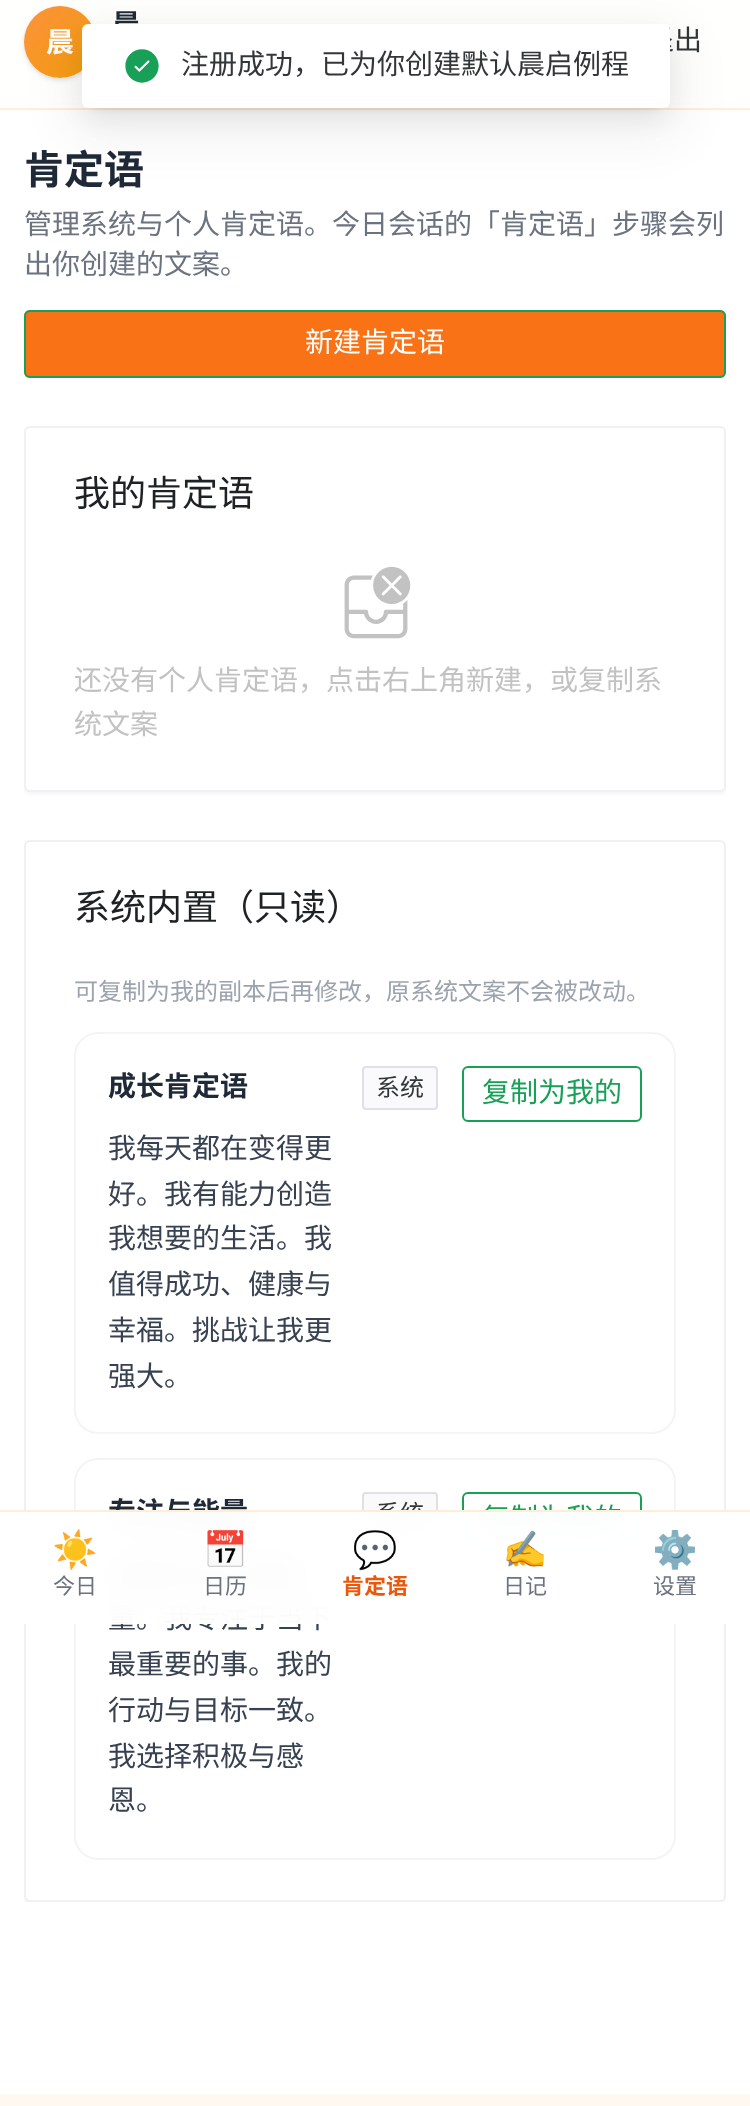
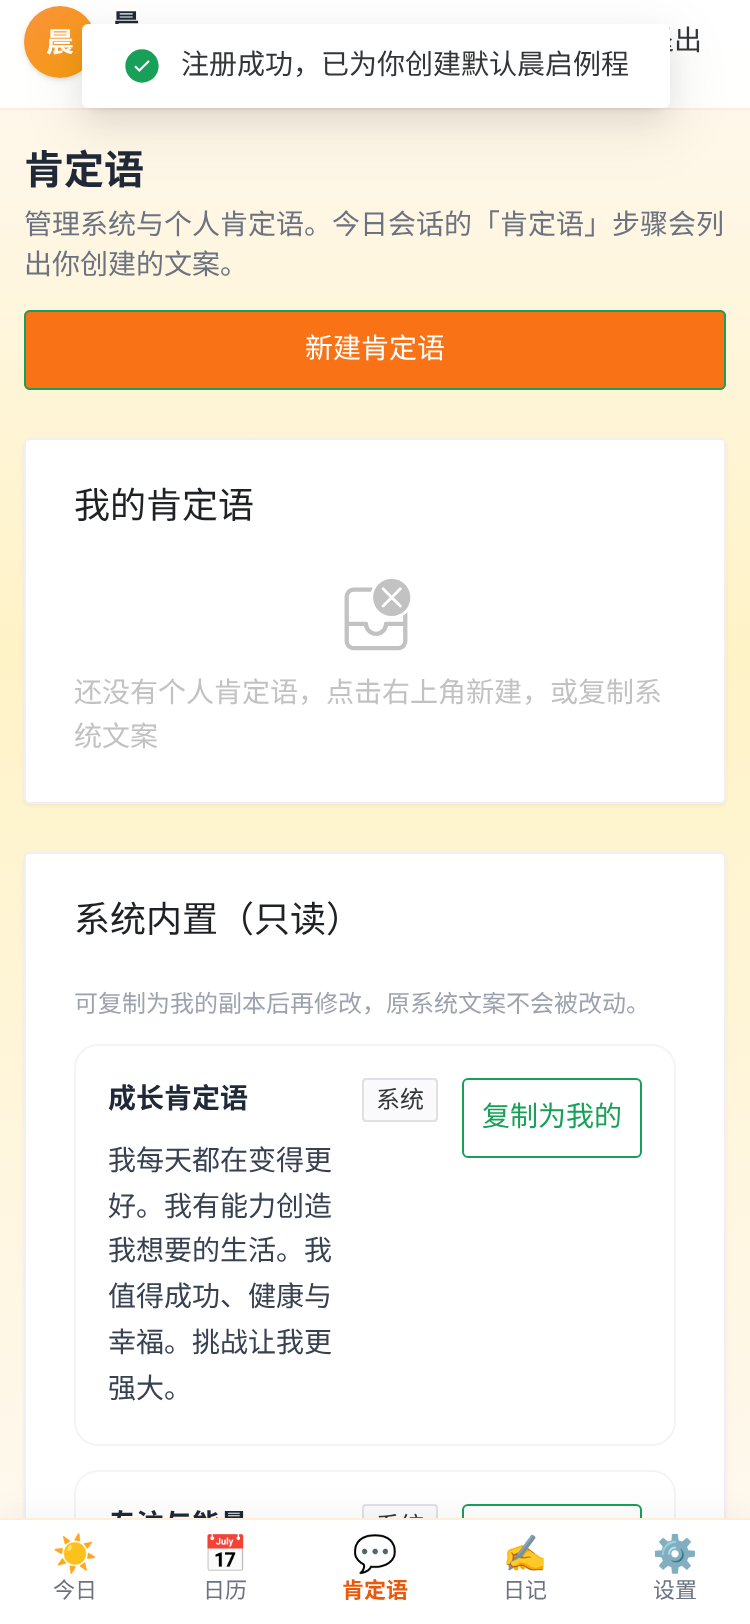
fix(frontend): pin mobile tab bar to viewport via Teleport
Naive UI n-layout scroll/overflow containers can trap position:fixed on
mobile WebKit, leaving the tab bar mid-page. Move the bar to document.body
with Teleport, replace n-layout with a plain flex shell, and recapture
viewport (not fullPage) mobile screenshots.

diff --git a/frontend/src/App.vue b/frontend/src/App.vue
@@ -5,9 +5,6 @@ import {
   NConfigProvider,
   NMessageProvider,
   NDialogProvider,
-  NLayout,
-  NLayoutHeader,
-  NLayoutContent,
   NMenu,
   NButton,
   NSpace,
@@ -59,10 +56,11 @@ function isTabActive(key: string) {
   <n-config-provider :locale="zhCN" :date-locale="dateZhCN">
     <n-message-provider>
       <n-dialog-provider>
-        <n-layout class="min-h-screen min-h-[100dvh] bg-transparent">
-          <n-layout-header
+        <!-- Plain shell: avoid n-layout overflow containers that trap position:fixed on mobile WebKit -->
+        <div class="app-shell flex flex-col min-h-[100dvh] min-h-screen bg-transparent">
+          <header
             v-if="showNav"
-            class="safe-top px-3 sm:px-4 md:px-8 py-3 bg-white/90 backdrop-blur border-b border-orange-100 sticky top-0 z-20"
+            class="app-header safe-top sticky top-0 z-20 px-3 sm:px-4 md:px-8 py-3 bg-white/95 border-b border-orange-100"
           >
             <div class="max-w-5xl mx-auto flex items-center justify-between gap-3">
               <div class="flex items-center gap-2 sm:gap-3 min-w-0">
@@ -85,22 +83,24 @@ function isTabActive(key: string) {
                 <n-button quaternary size="medium" class="!px-3" @click="logout">退出</n-button>
               </n-space>
             </div>
-          </n-layout-header>
+          </header>
 
-          <n-layout-content
-            class="px-3 sm:px-4 md:px-8 py-4 sm:py-6"
-            :class="showNav ? 'pb-24 md:pb-6' : ''"
+          <main
+            class="flex-1 w-full px-3 sm:px-4 md:px-8 py-4 sm:py-6"
+            :class="showNav ? 'pb-[calc(4.5rem+env(safe-area-inset-bottom,0px))] md:pb-6' : ''"
           >
             <div class="max-w-5xl mx-auto w-full">
               <router-view v-if="auth.ready || route.meta.guest" />
               <div v-else class="text-center text-gray-500 py-20">加载中…</div>
             </div>
-          </n-layout-content>
+          </main>
+        </div>
 
-          <!-- Mobile bottom nav -->
+        <!-- Teleport to body so fixed is always relative to the viewport -->
+        <Teleport to="body">
           <nav
             v-if="showNav"
-            class="md:hidden fixed bottom-0 inset-x-0 z-30 bg-white/95 backdrop-blur border-t border-orange-100 safe-bottom"
+            class="mobile-tabbar md:hidden"
             aria-label="主导航"
           >
             <div class="grid grid-cols-5 max-w-lg mx-auto">
@@ -108,7 +108,7 @@ function isTabActive(key: string) {
                 v-for="tab in bottomTabs"
                 :key="tab.key"
                 type="button"
-                class="flex flex-col items-center justify-center gap-0.5 py-2 min-h-[56px] text-[11px] sm:text-xs transition-colors"
+                class="flex flex-col items-center justify-center gap-0.5 py-2 min-h-[52px] text-[11px] sm:text-xs transition-colors"
                 :class="isTabActive(tab.key) ? 'text-orange-600 font-semibold' : 'text-gray-500'"
                 @click="onMenu(tab.key)"
               >
@@ -117,7 +117,7 @@ function isTabActive(key: string) {
               </button>
             </div>
           </nav>
-        </n-layout>
+        </Teleport>
       </n-dialog-provider>
     </n-message-provider>
   </n-config-provider>

diff --git a/frontend/src/style.css b/frontend/src/style.css
@@ -21,9 +21,9 @@ body {
 
 #app {
   overflow-x: hidden;
+  min-height: 100dvh;
 }
 
-/* Prefer comfortable tap targets on touch devices */
 @media (pointer: coarse) {
   button, .n-button, a {
     min-height: 40px;
@@ -36,4 +36,18 @@ body {
 
 .safe-top {
   padding-top: env(safe-area-inset-top, 0px);
+}
+
+/* Viewport-fixed mobile tab bar — lives on body via Teleport */
+.mobile-tabbar {
+  position: fixed;
+  left: 0;
+  right: 0;
+  bottom: 0;
+  z-index: 1000;
+  background: #fff;
+  border-top: 1px solid #ffedd5;
+  padding-bottom: env(safe-area-inset-bottom, 0px);
+  /* Avoid filter/backdrop-filter (can create containing blocks on some engines) */
+  box-shadow: 0 -4px 16px rgba(0, 0, 0, 0.04);
 }
